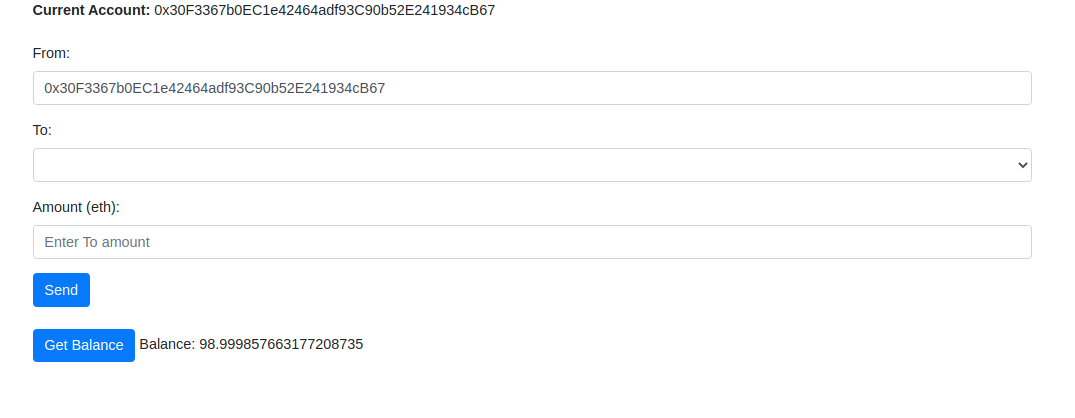
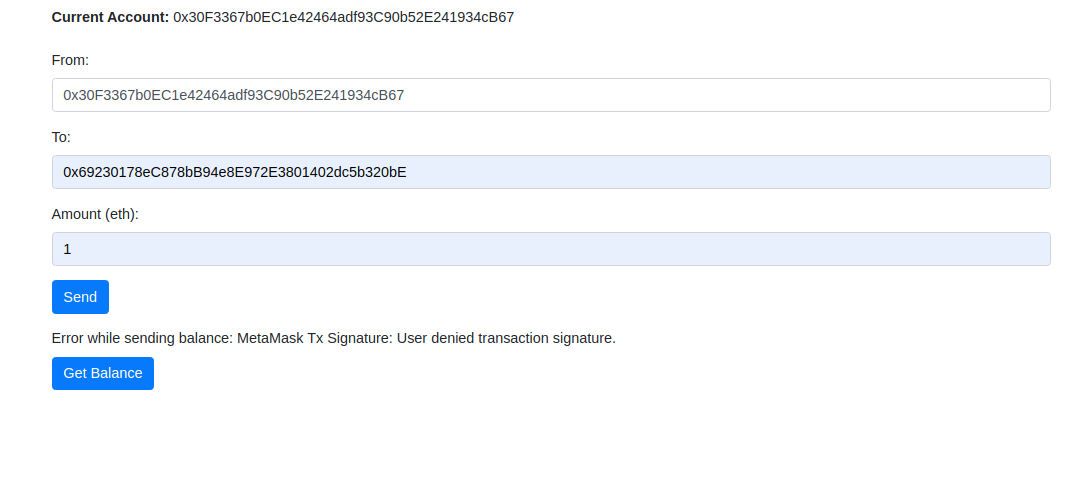
changes

diff --git a/web/index.html b/web/index.html
@@ -145,7 +145,7 @@
 
             approvalContract.methods.deposit(toAddress).send( {from: fromAddress, gas: 1000000, value: amount}, function (error,result){
                 if (error)   {
-                    $("#message").html("Error while sending balance: " + error);
+                    $("#message").html("Error while sending balance: " + error['message']);
                     console.error('Error while sending balance', error);
                 } else{
                     $("#message").html("Transaction successful. Transaction id: " + result);

diff --git a/README.md b/README.md
@@ -1,6 +1,8 @@
 # web3-send-ethereum
 This project is based on web3 js.
 
+![Application](app1.png)
+
 ### Start local ethereum environment using below command
 
 `truffle develop`
